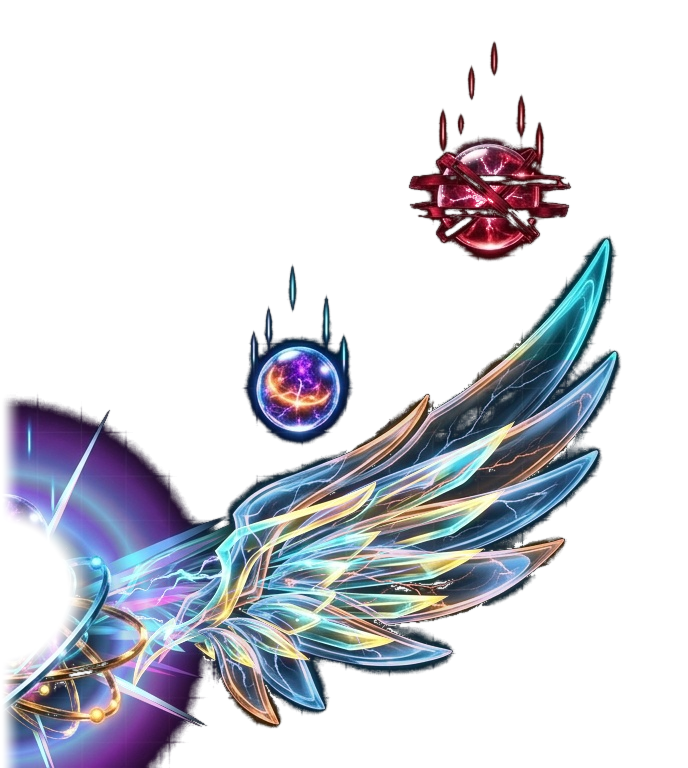
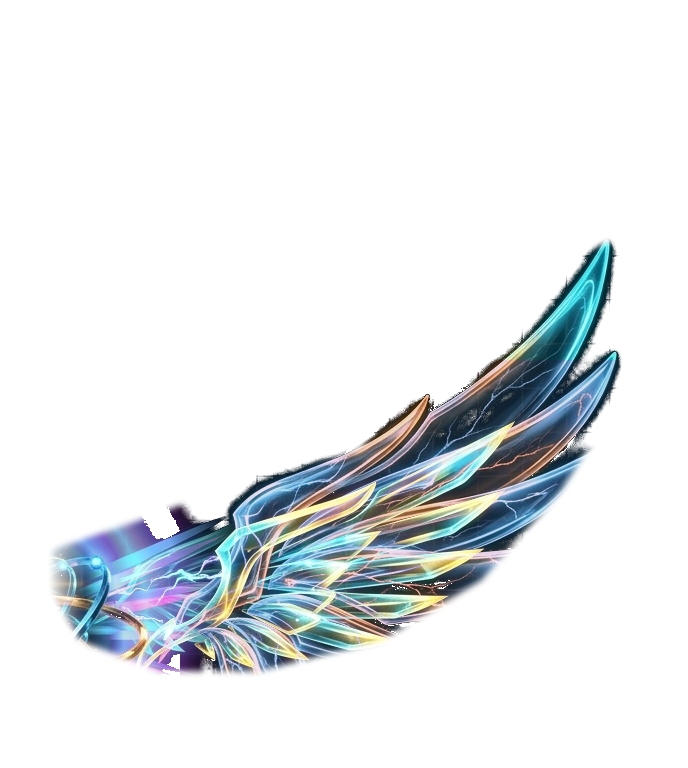
feat(arcade): v350 pure wings asset isolation, eliminate baked half-circle glow & floating sky nodes, elevate catcher bottom margin

diff --git a/game.js b/game.js
@@ -1139,46 +1139,46 @@
 
   ['dynamo', 'helix', 'meteor'].forEach((m) => {
     LayeredT4Assets.halo[m].onload = () => { LayeredT4Assets.loaded.halo[m] = true; };
-    LayeredT4Assets.halo[m].src = `assets/layer-${m}-halo.png?v=arcade349`;
+    LayeredT4Assets.halo[m].src = `assets/layer-${m}-halo.png?v=arcade350`;
 
     LayeredT4Assets.wingRight[m].onload = () => {
       LayeredT4Assets.loaded.wingRight[m] = true;
     };
-    LayeredT4Assets.wingRight[m].src = `assets/layer-${m}-wing-right.png?v=arcade349`;
+    LayeredT4Assets.wingRight[m].src = `assets/layer-${m}-wing-right.png?v=arcade350`;
   });
 
   LayeredT4Assets.coreBase.dynamo.onload = () => { LayeredT4Assets.loaded.coreBase.dynamo = true; };
-  LayeredT4Assets.coreBase.dynamo.src = 'assets/layer-dynamo-nucleus.png?v=arcade349';
+  LayeredT4Assets.coreBase.dynamo.src = 'assets/layer-dynamo-nucleus.png?v=arcade350';
 
   LayeredT4Assets.coreBase.helix.onload = () => { LayeredT4Assets.loaded.coreBase.helix = true; };
-  LayeredT4Assets.coreBase.helix.src = 'assets/layer-helix-shell.png?v=arcade349';
+  LayeredT4Assets.coreBase.helix.src = 'assets/layer-helix-shell.png?v=arcade350';
 
   LayeredT4Assets.coreBase.meteor.onload = () => { LayeredT4Assets.loaded.coreBase.meteor = true; };
-  LayeredT4Assets.coreBase.meteor.src = 'assets/layer-meteor-caldera.png?v=arcade349';
+  LayeredT4Assets.coreBase.meteor.src = 'assets/layer-meteor-caldera.png?v=arcade350';
 
   LayeredT4Assets.nodeShell.dynamo.onload = () => { LayeredT4Assets.loaded.nodeShell.dynamo = true; };
-  LayeredT4Assets.nodeShell.dynamo.src = 'assets/layer-node-dynamo-shell.png?v=arcade349';
+  LayeredT4Assets.nodeShell.dynamo.src = 'assets/layer-node-dynamo-shell.png?v=arcade350';
 
   LayeredT4Assets.nodeShell.helix.onload = () => { LayeredT4Assets.loaded.nodeShell.helix = true; };
-  LayeredT4Assets.nodeShell.helix.src = 'assets/layer-node-helix-shell.png?v=arcade349';
+  LayeredT4Assets.nodeShell.helix.src = 'assets/layer-node-helix-shell.png?v=arcade350';
 
   LayeredT4Assets.nodeShell.meteor.onload = () => { LayeredT4Assets.loaded.nodeShell.meteor = true; };
-  LayeredT4Assets.nodeShell.meteor.src = 'assets/layer-node-meteor-rock.png?v=arcade349';
+  LayeredT4Assets.nodeShell.meteor.src = 'assets/layer-node-meteor-rock.png?v=arcade350';
 
   LayeredT4Assets.hazard.dynamoCore.onload = () => { LayeredT4Assets.loaded.hazard.dynamoCore = true; };
-  LayeredT4Assets.hazard.dynamoCore.src = 'assets/layer-hazard-dynamo-core.png?v=arcade349';
+  LayeredT4Assets.hazard.dynamoCore.src = 'assets/layer-hazard-dynamo-core.png?v=arcade350';
 
   LayeredT4Assets.hazard.dynamoGlitch.onload = () => { LayeredT4Assets.loaded.hazard.dynamoGlitch = true; };
-  LayeredT4Assets.hazard.dynamoGlitch.src = 'assets/layer-hazard-dynamo-glitch.png?v=arcade349';
+  LayeredT4Assets.hazard.dynamoGlitch.src = 'assets/layer-hazard-dynamo-glitch.png?v=arcade350';
 
   LayeredT4Assets.hazard.helixClean.onload = () => { LayeredT4Assets.loaded.hazard.helixClean = true; };
-  LayeredT4Assets.hazard.helixClean.src = 'assets/layer-hazard-helix-clean.png?v=arcade349';
+  LayeredT4Assets.hazard.helixClean.src = 'assets/layer-hazard-helix-clean.png?v=arcade350';
 
   LayeredT4Assets.hazard.meteorBlades.onload = () => { LayeredT4Assets.loaded.hazard.meteorBlades = true; };
-  LayeredT4Assets.hazard.meteorBlades.src = 'assets/layer-hazard-meteor-blades.png?v=arcade349';
+  LayeredT4Assets.hazard.meteorBlades.src = 'assets/layer-hazard-meteor-blades.png?v=arcade350';
 
   LayeredT4Assets.hazard.meteorCenter.onload = () => { LayeredT4Assets.loaded.hazard.meteorCenter = true; };
-  LayeredT4Assets.hazard.meteorCenter.src = 'assets/layer-hazard-meteor-center.png?v=arcade349';
+  LayeredT4Assets.hazard.meteorCenter.src = 'assets/layer-hazard-meteor-center.png?v=arcade350';
 
   // ─────────────────────────────────────────────────────────────
   // SECONDARY KINEMATICS, ASCENSION MORPHING & LOCK-ON ENGINE
@@ -2504,7 +2504,7 @@
       if (cTier > 2.05 && LayeredT4Assets.loaded.halo[mode]) {
         const haloSpr = LayeredT4Assets.halo[mode];
         const haloMorph = Math.min(1.0, (cTier - 2.0) / 1.8);
-        const haloScale = (0.50 + 0.35 * haloMorph) * (1.0 + Math.sin(now * 0.003) * 0.02 + CoreKinematics.overdriveFlash * 0.08);
+        const haloScale = (0.42 + 0.24 * haloMorph) * (1.0 + Math.sin(now * 0.003) * 0.02 + CoreKinematics.overdriveFlash * 0.08);
         ctx.save();
         ctx.globalAlpha = Math.min(1.0, (cTier - 2.0) * 0.85 + CoreKinematics.overdriveFlash * 0.25);
         ctx.globalCompositeOperation = 'lighter';
@@ -3526,8 +3526,9 @@
     // so the entire 3D core and flare rings are 100% visible and thumb sits comfortably below!
     const isCoarse = (deviceInputMode === 'touch') || window.innerWidth <= 768;
     const bottomSafe = (window.innerHeight > 800) ? 34 : 20;
-    // Elevate catcher comfortably: 22% of screen height (or at least 185px) on touch/mobile
-    const catcherBottomMargin = isCoarse ? Math.max(185, Math.round(h * 0.22)) : 105;
+    // Elevate catcher comfortably: 24% on mobile (at least 185px) and 26% on desktop (at least 160px)
+    // so the entire 360-degree radiant aura, starburst halo, and wings have ample breathing room and are never cut off by the screen bottom!
+    const catcherBottomMargin = isCoarse ? Math.max(185, Math.round(h * 0.24)) : Math.max(160, Math.round(h * 0.26));
     const catcherPixelY = h - catcherBottomMargin;
 
     // ─────────────────────────────────────────────────────────────

diff --git a/index.html b/index.html
@@ -21,7 +21,7 @@
   <link rel="apple-touch-icon" sizes="167x167" href="apple-touch-icon-167x167.png?v=oc310">
   <link rel="apple-touch-icon" sizes="152x152" href="apple-touch-icon-152x152.png?v=oc310">
   <link rel="apple-touch-icon" sizes="120x120" href="apple-touch-icon-120x120.png?v=oc310">
-  <link rel="stylesheet" href="styles.css?v=arcade349">
+  <link rel="stylesheet" href="styles.css?v=arcade350">
   <link rel="preconnect" href="https://fonts.googleapis.com">
   <link rel="preconnect" href="https://fonts.gstatic.com" crossorigin>
   <link href="https://fonts.googleapis.com/css2?family=Bebas+Neue&family=Inter:wght@400;500;600;700;800;900&family=Lexend:wght@400;500;600;700;800;900&display=swap" rel="stylesheet">
@@ -1643,7 +1643,7 @@
   <script src="/assets/relative-time.js"></script>
   <script src="sound.js?v=pure240"></script>
   <script src="qrcode.min.js"></script>
-  <script src="app.js?v=arcade349"></script>
+  <script src="app.js?v=arcade350"></script>
 
   <!-- BACKUP & RESTORE WORKSPACE MODAL -->
   <div class="modal-wrap" id="backupRestoreModal" role="dialog" aria-modal="true" aria-label="Backup & Restore Workspace" style="display:none;position:fixed;inset:0;background:rgba(0,0,0,0.82);backdrop-filter:blur(12px);-webkit-backdrop-filter:blur(12px);z-index:9999;align-items:center;justify-content:center;">
@@ -1702,7 +1702,7 @@
       </div>
     </div>
   </div>
-  <script src="game.js?v=arcade349"></script>
+  <script src="game.js?v=arcade350"></script>
   <!-- BuildStamp: 2026-11-17T13:55:00.000Z - Quantum Chromatic Monogram v314 -->
 </body>
 </html>

diff --git a/sw.js b/sw.js
@@ -1,12 +1,12 @@
 /* OrlandoChrome · Offline-First Service Worker (PWA Ready) */
-const CACHE_NAME = 'orlandochrome-arcade-v349';
+const CACHE_NAME = 'orlandochrome-arcade-v350';
 const ASSETS = [
   './',
   './index.html',
-  './styles.css?v=arcade349',
-  './game.js?v=arcade349',
+  './styles.css?v=arcade350',
+  './game.js?v=arcade350',
   './qrcode.min.js',
-  './app.js?v=arcade349',
+  './app.js?v=arcade350',
   './sound.js?v=pure240',
   './oc-logo.png',
   './oc-logo.svg',
